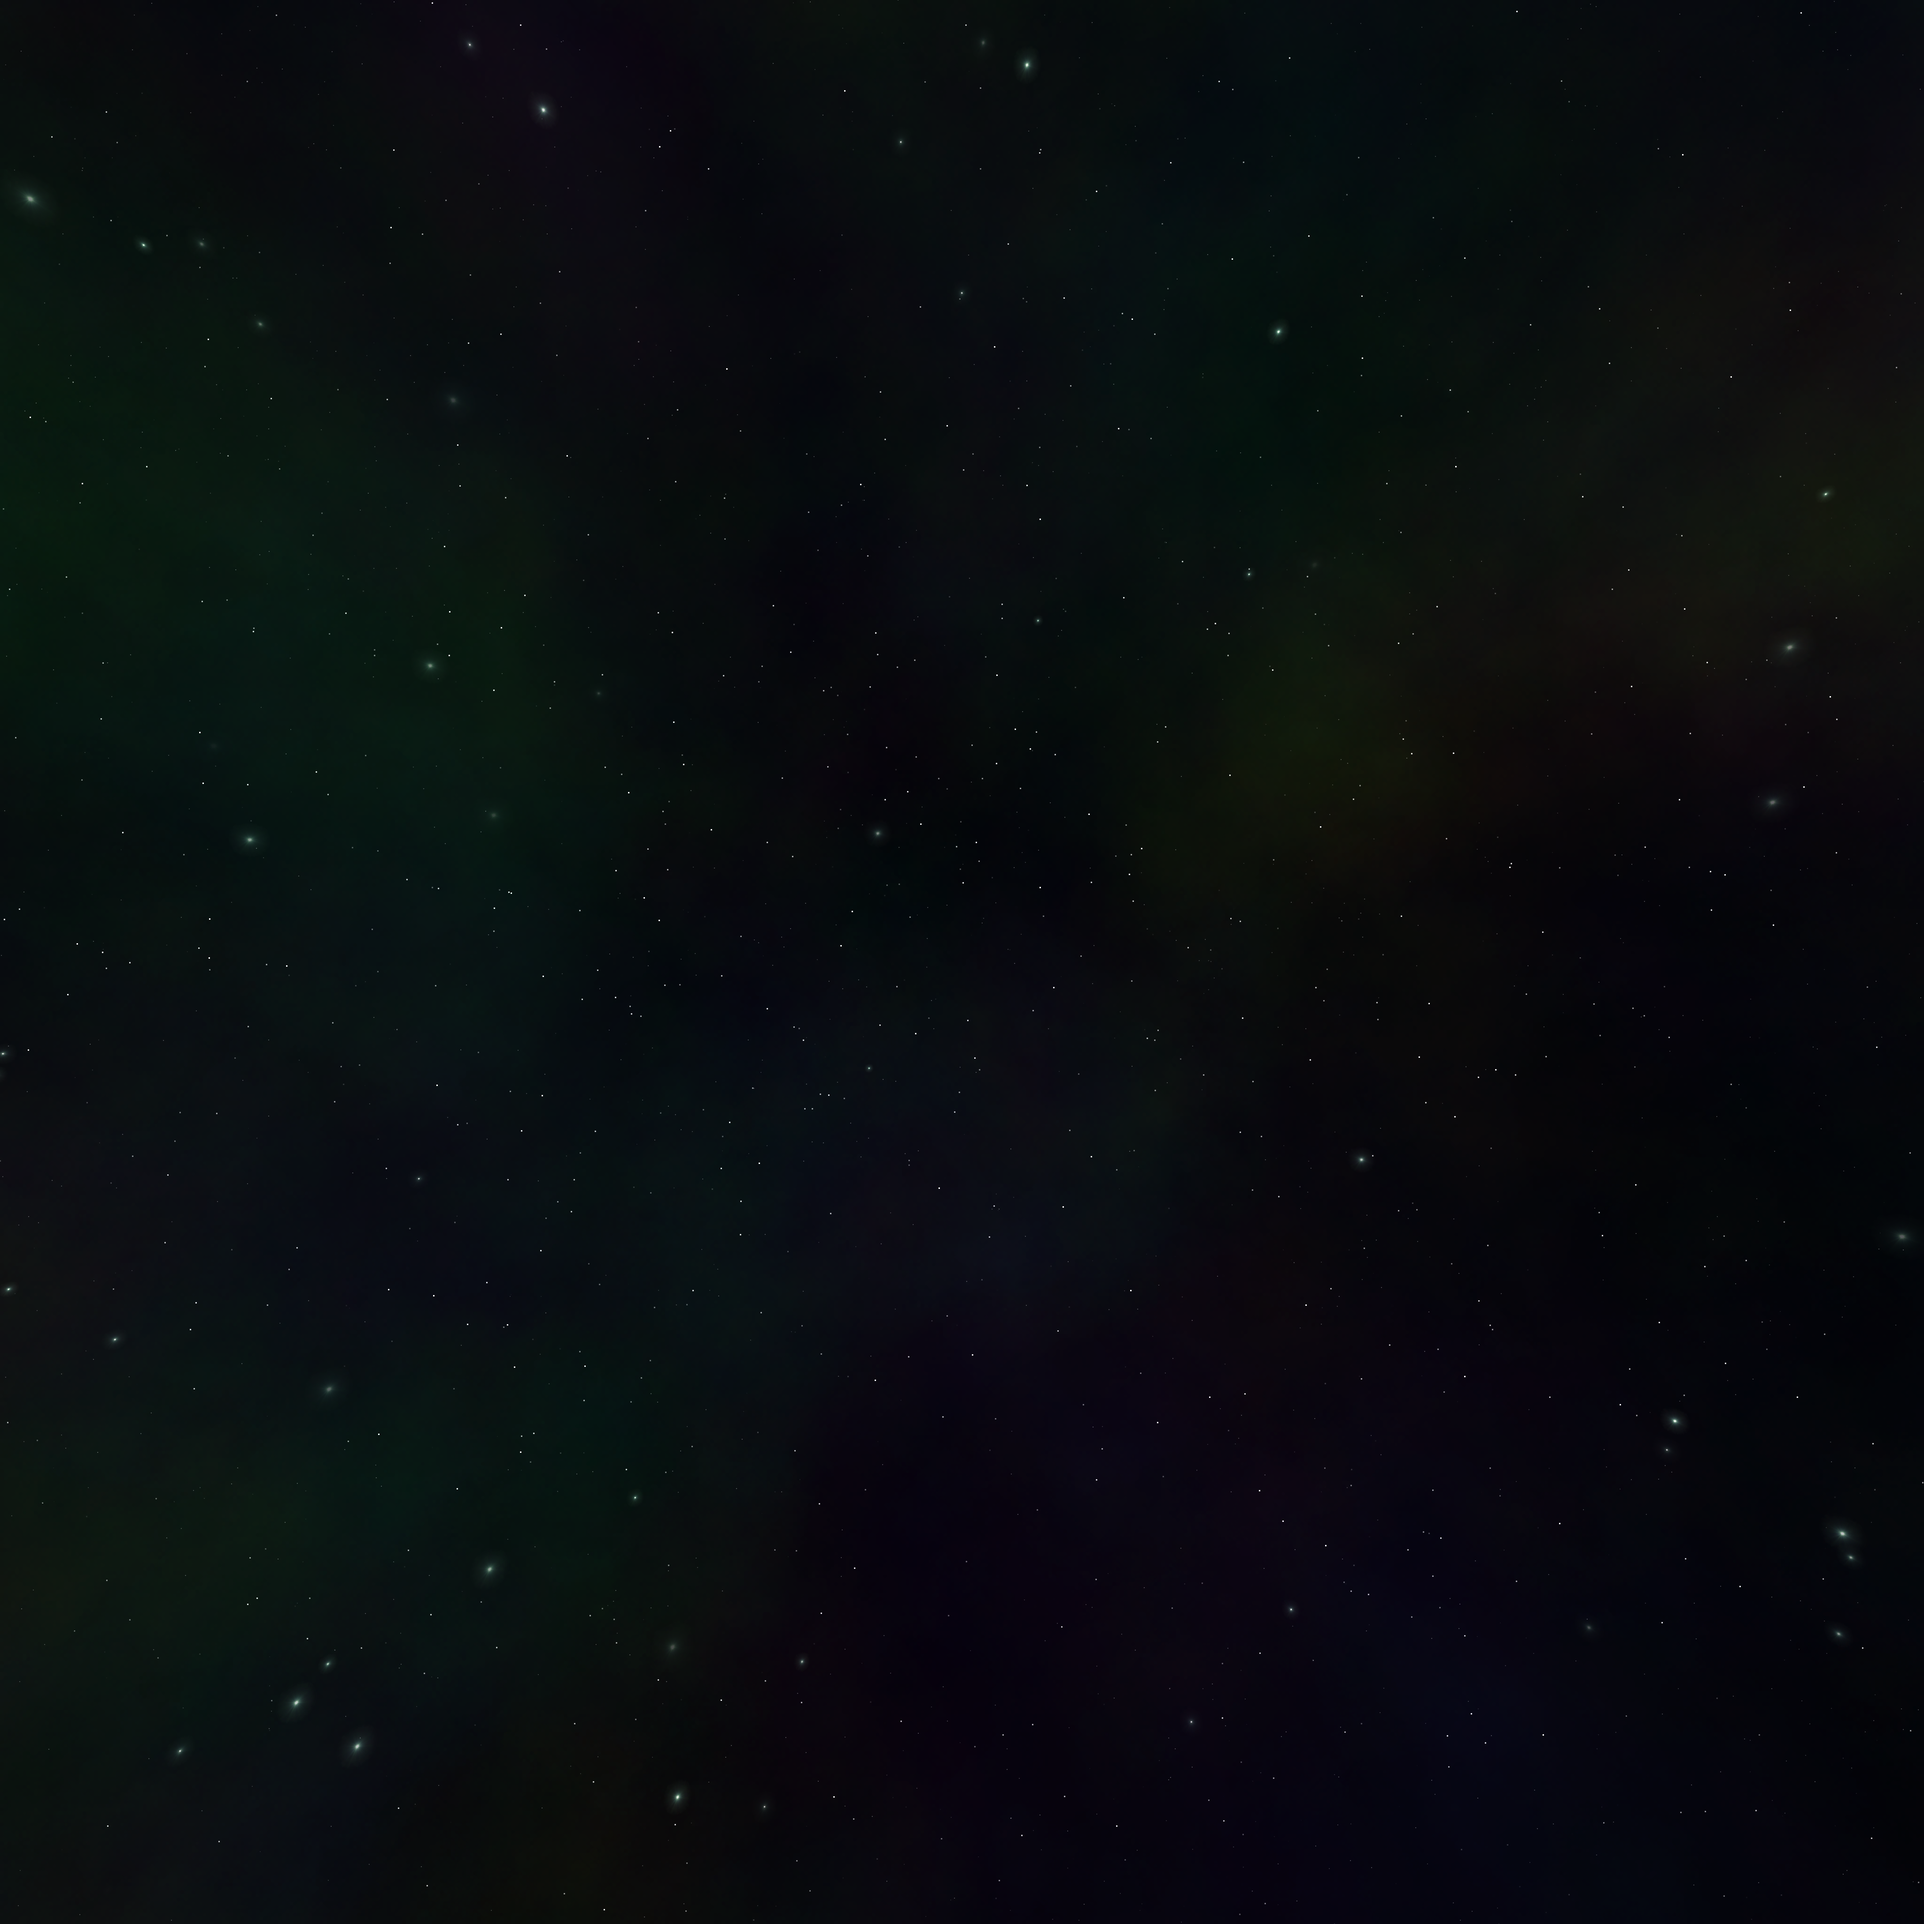
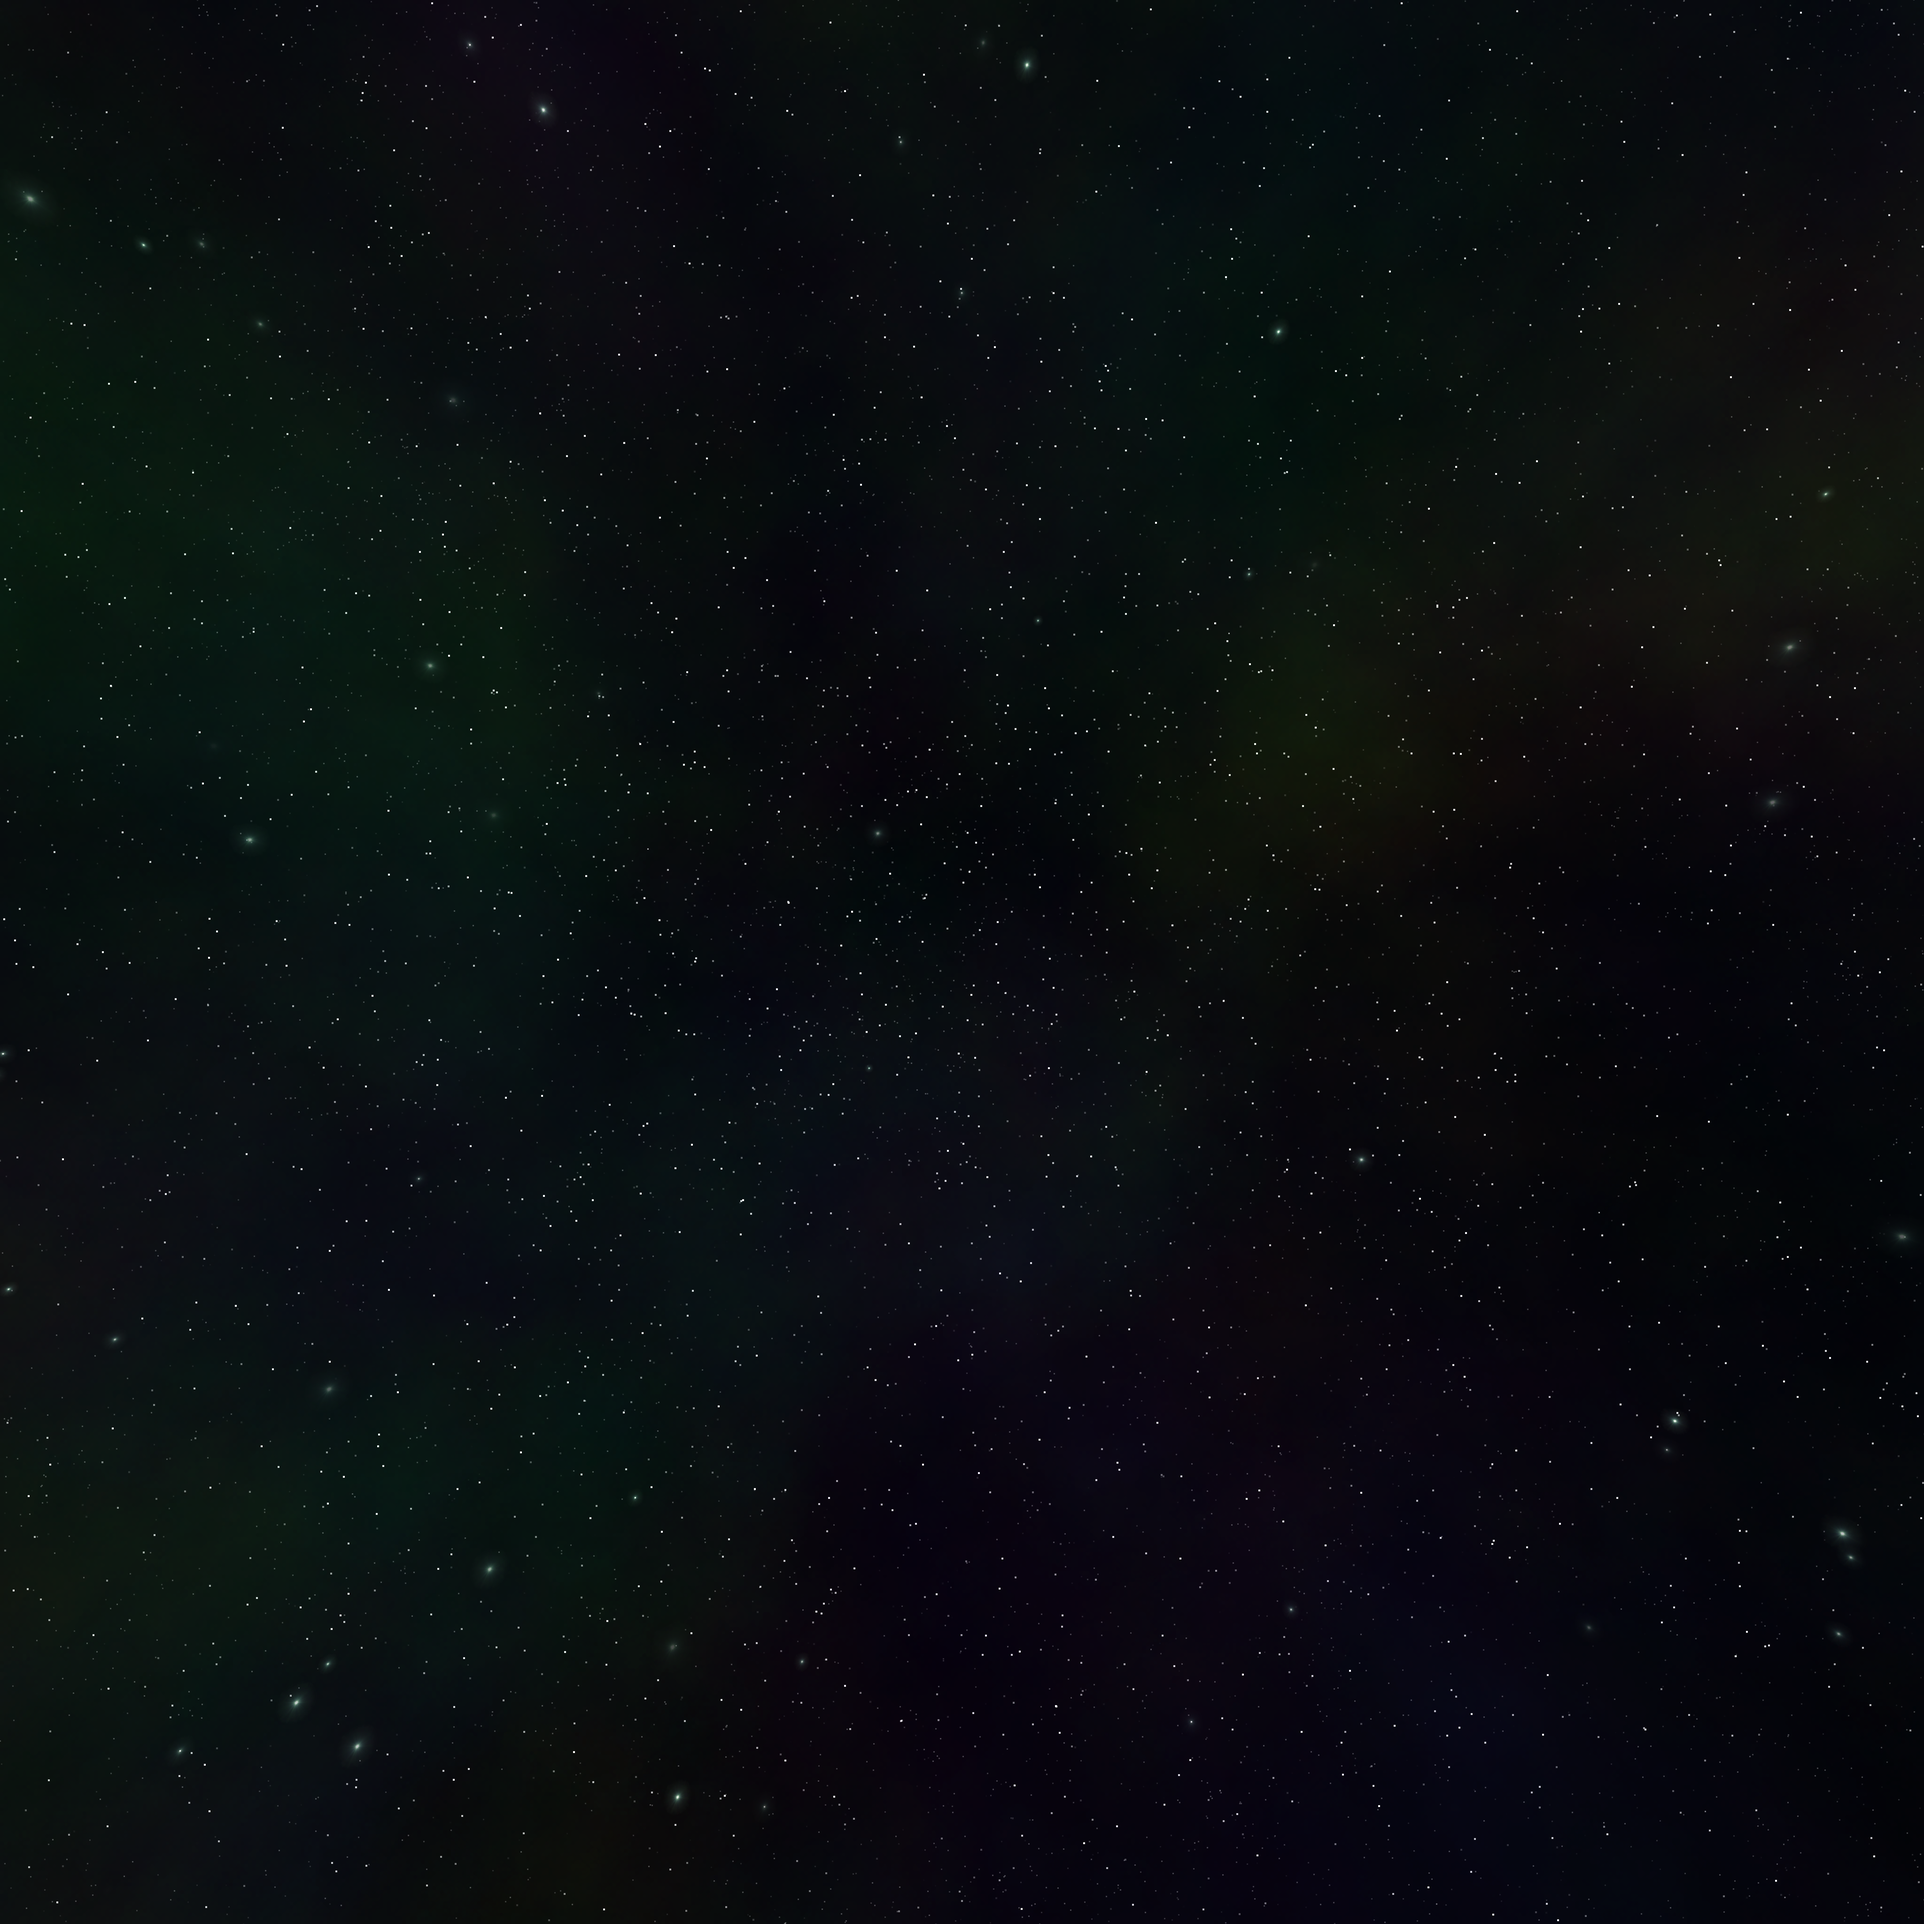
added more stars to skybox texture and added into the .js

diff --git a/src/components/canvas/SceneManager.js b/src/components/canvas/SceneManager.js
@@ -26,12 +26,20 @@ import HudTest from './objects/tests/hudTest.js'
 // import negz from './assets/ulukai/corona_lf.png'
 
 // Azul
-import posx from './assets/skybox/1.png'
-import negx from './assets/skybox/3.png'
-import posy from './assets/skybox/5.png'
-import negy from './assets/skybox/6.png'
-import posz from './assets/skybox/2.png'
-import negz from './assets/skybox/4.png'
+// import posx from './assets/skybox/1.png'
+// import negx from './assets/skybox/3.png'
+// import posy from './assets/skybox/5.png'
+// import negy from './assets/skybox/6.png'
+// import posz from './assets/skybox/2.png'
+// import negz from './assets/skybox/4.png'
+
+//Test
+import posx from './assets/skybox_test/main_skybox/main_skybox_RT.png'
+import posy from './assets/skybox_test/main_skybox/main_skybox_UP.png'
+import negx from './assets/skybox_test/main_skybox/main_skybox_LF.png'
+import negy from './assets/skybox_test/main_skybox/main_skybox_DN.png'
+import posz from './assets/skybox_test/main_skybox/main_skybox_FT.png'
+import negz from './assets/skybox_test/main_skybox/main_skybox_BK.png'
 import { render } from '@testing-library/react';
 
 // stars
